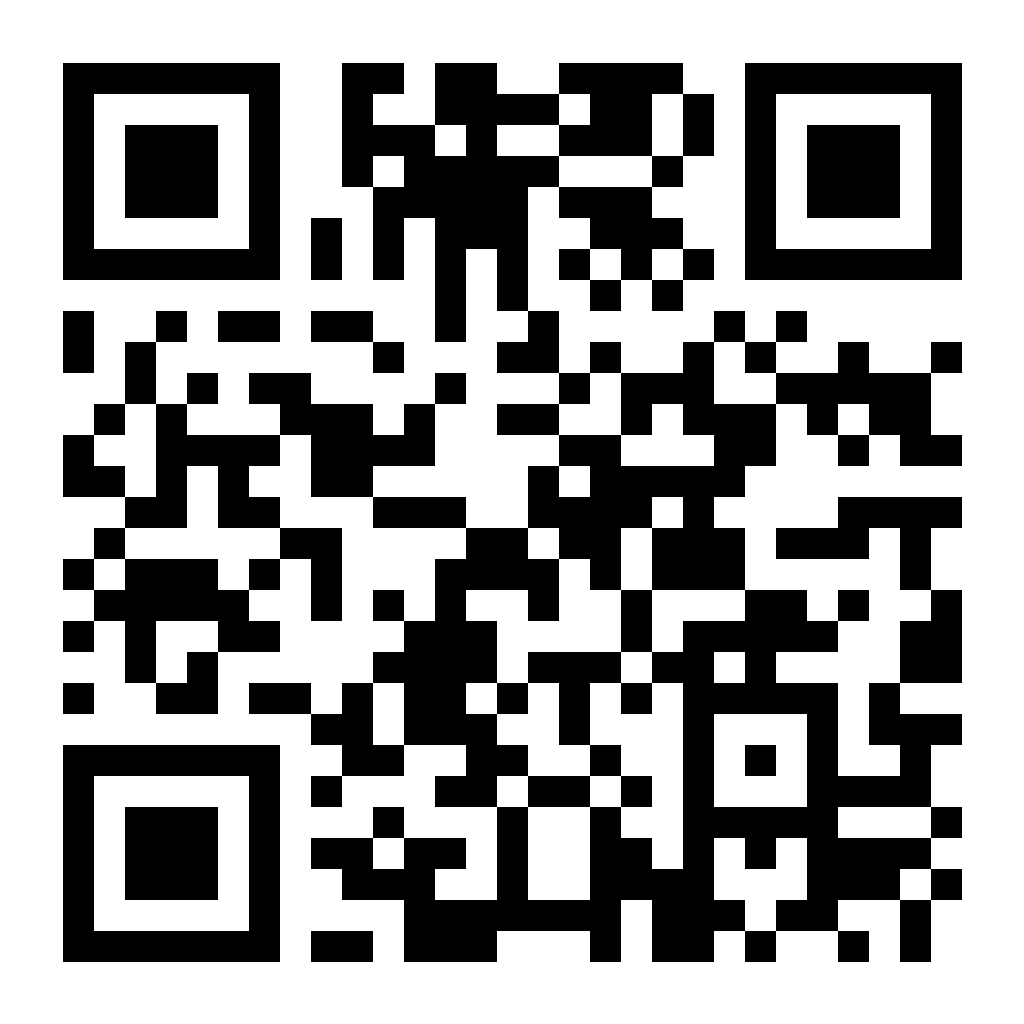
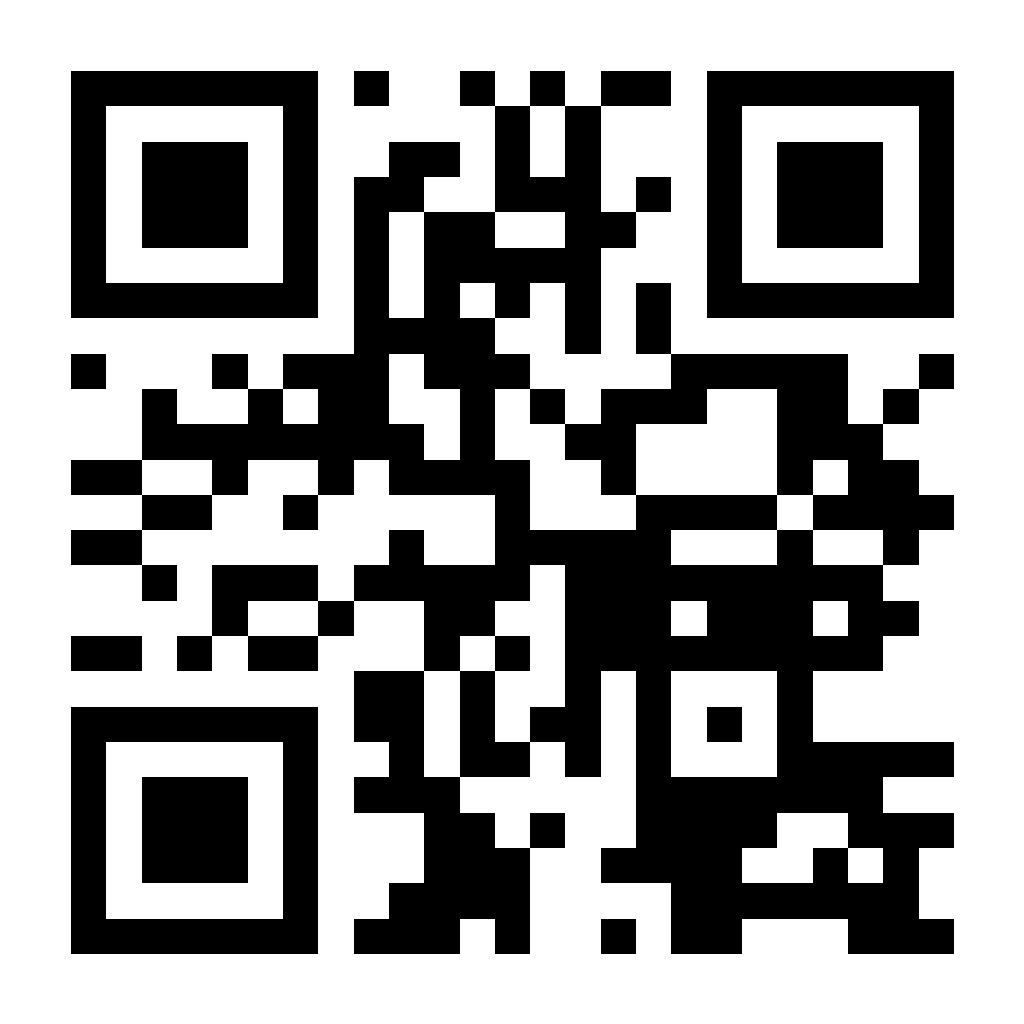
Domain utama jukirhub.site: URL kanonik, sitemap, QR, dokumen; alamat lama & www dialihkan permanen
- SITUS.urlBawaan, cek-tayang, setup-telegram, URL_WEB bawaan lapor, User-Agent berita, QR & poster, teks WA, iklan
- vercel.json: jukirhub.vercel.app & www.jukirhub.site -> https://jukirhub.site (308)
- JANGAN push sebelum domain aktif di Vercel + DNS, dan ALLOWED_ORIGINS Supabase memuat jukirhub.site

diff --git a/docs/peluncuran/poster.html b/docs/peluncuran/poster.html
@@ -40,8 +40,8 @@
   <p class="sub">Jukirnya membantu? Bayar berapa? Dapat karcis? Laporan Anda membantu warga lain dan pemerintah daerah
     mengetahui aktivitas parkir di sekitar sini.</p>
   <div class="qr">
-    <img src="qr-jukirhub.svg" alt="QR code ke jukirhub.vercel.app/peta">
-    <p>Pindai dengan kamera HP<br><span class="url">jukirhub.vercel.app</span><br>Gratis, tanpa akun, &lt; 30 detik.</p>
+    <img src="qr-jukirhub.svg" alt="QR code ke jukirhub.site/peta">
+    <p>Pindai dengan kamera HP<br><span class="url">jukirhub.site</span><br>Gratis, tanpa akun, &lt; 30 detik.</p>
   </div>
   <ol>
     <li><span>Buka peta, izinkan lokasi.</span></li>
@@ -59,8 +59,8 @@
   <p class="sub">Pengunjung tidak perlu membayar parkir di tempat kami. Bantu warga lain tahu: laporkan
     <b>"Tidak ada jukir"</b> di JukirHub.</p>
   <div class="qr">
-    <img src="qr-jukirhub.svg" alt="QR code ke jukirhub.vercel.app/peta">
-    <p>Pindai, ketuk tempat ini di peta, pilih <b>Tidak ada jukir</b>, kirim.<br><span class="url">jukirhub.vercel.app</span></p>
+    <img src="qr-jukirhub.svg" alt="QR code ke jukirhub.site/peta">
+    <p>Pindai, ketuk tempat ini di peta, pilih <b>Tidak ada jukir</b>, kirim.<br><span class="url">jukirhub.site</span></p>
   </div>
   <p class="catatan">Ada yang menarik uang parkir di sini? Itu bukan dari kami. Laporkan lewat JukirHub
     ("Ada jukir" → pilih indikasi yang dialami) dan beri tahu kasir kami.</p>

diff --git a/tests/situs.test.js b/tests/situs.test.js
@@ -83,3 +83,14 @@ test('ads.txt tidak dialihkan ke aplikasi (404 sampai kode AdSense diisi, bukan 
   assert.ok(new RegExp(v.rewrites[0].source.replace(/^\//, '^/') + '$').test('/privasi'));
   assert.ok(!new RegExp(v.rewrites[0].source.replace(/^\//, '^/') + '$').test('/ads.txt'));
 });
+
+test('domain utama jukirhub.site: kanonik, dan alamat lama & www dialihkan permanen', async () => {
+  const fs = await import('node:fs');
+  const { SITUS } = await import('../web/src/lib/konten-beranda.js');
+  assert.equal(SITUS.urlBawaan, 'https://jukirhub.site');
+  const v = JSON.parse(fs.readFileSync('vercel.json', 'utf8'));
+  for (const host of ['jukirhub.vercel.app', 'www.jukirhub.site']) {
+    const r = v.redirects.find(x => x.has?.[0]?.value === host);
+    assert.ok(r && r.permanent && r.destination === 'https://jukirhub.site/:jalur*', host);
+  }
+});

diff --git a/tests/kabar-pemilik.test.js b/tests/kabar-pemilik.test.js
@@ -5,7 +5,7 @@ import { prosesTelegram, samaAman } from '../supabase/functions/telegram/proses.
 import { prosesLapor } from '../supabase/functions/lapor/proses.js';
 
 test('pesan tempat baru: nama di-escape, asal nama, tautan OpenStreetMap; tanpa data pelapor', () => {
-  const p = pesanTempatBaru({ id: 12, nama: 'Cafe <Kopi> & Teh', sumber: 'pin', lat: -5.14, lng: 119.43 }, 'https://jukirhub.vercel.app');
+  const p = pesanTempatBaru({ id: 12, nama: 'Cafe <Kopi> & Teh', sumber: 'pin', lat: -5.14, lng: 119.43 }, 'https://jukirhub.site');
   assert.match(p, /Cafe &lt;Kopi&gt; &amp; Teh/);
   assert.match(p, /nama diketik warga/);
   assert.match(p, /openstreetmap\.org\/\?mlat=-5\.14&amp;mlon=119\.43/, '& di href di-escape untuk HTML Telegram');

diff --git a/scripts/cek-tayang.js b/scripts/cek-tayang.js
@@ -1,4 +1,4 @@
-// Pastikan commit terakhir di `main` sudah TAYANG di jukirhub.vercel.app (AGENTS.md bagian 9).
+// Pastikan commit terakhir di `main` sudah TAYANG di jukirhub.site (AGENTS.md bagian 9).
 //
 //   git push && npm run cek:tayang
 //
@@ -9,7 +9,7 @@
 import { execSync } from 'node:child_process';
 import { pathToFileURL } from 'node:url';
 
-const SITUS = 'https://jukirhub.vercel.app';
+const SITUS = 'https://jukirhub.site';
 const REPO = 'wahyu-setiawan99/jukirhub';
 const JEDA_MS = 30_000;
 const MAKS_MS = 10 * 60_000;

diff --git a/web/src/lib/konten-beranda.js b/web/src/lib/konten-beranda.js
@@ -9,7 +9,7 @@ export const SITUS = {
   // Tagline logo (keputusan pemilik 1 Okt 2026). Satu sumber: header, Beranda, og.png.
   tagline: 'Melaporkan juru parkir liar',
   // Domain belum diputuskan (AGENTS.md bagian 11). Bisa ditimpa env VITE_SITE_URL.
-  urlBawaan: 'https://jukirhub.vercel.app',
+  urlBawaan: 'https://jukirhub.site',
   judul: 'JukirHub: Info Juru Parkir, Tarif, dan Indikasi Pungli dari Warga',
   // Deskripsi ±150 karakter: lebih panjang dari ±160 dipotong Google di hasil pencarian.
   deskripsi:

diff --git a/supabase/functions/lapor/index.ts b/supabase/functions/lapor/index.ts
@@ -15,7 +15,7 @@ const supabase = createClient(
 
 const REPORTER_SALT = Deno.env.get('REPORTER_SALT');
 const IP_SALT = Deno.env.get('IP_SALT');
-const URL_WEB = Deno.env.get('URL_WEB') ?? 'https://jukirhub.vercel.app';
+const URL_WEB = Deno.env.get('URL_WEB') ?? 'https://jukirhub.site';
 const ALLOWED_ORIGINS = (Deno.env.get('ALLOWED_ORIGINS') ?? '*').split(',').map(s => s.trim()).filter(Boolean);
 
 function corsHeaders(req: Request): Record<string, string> {

diff --git a/supabase/functions/_shared/berita.js b/supabase/functions/_shared/berita.js
@@ -36,7 +36,7 @@ export const BATAS_BERITA = {
 };
 
 export const MODEL_BAWAAN = 'gemini-3.5-flash-lite';
-export const USER_AGENT = 'Mozilla/5.0 (compatible; JukirHubBot/1.0; +https://jukirhub.vercel.app)';
+export const USER_AGENT = 'Mozilla/5.0 (compatible; JukirHubBot/1.0; +https://jukirhub.site)';
 
 // ------------------------------------------------------------------ baca RSS
 

diff --git a/scripts/setup-telegram.js b/scripts/setup-telegram.js
@@ -15,7 +15,7 @@ import os from 'node:os';
 import path from 'node:path';
 import readline from 'node:readline/promises';
 
-const URL_WEB = 'https://jukirhub.vercel.app';
+const URL_WEB = 'https://jukirhub.site';
 
 async function telegram(token, metode, body) {
   const res = await fetch(`https://api.telegram.org/bot${token}/${metode}`, {

diff --git a/scripts/buat-qr.js b/scripts/buat-qr.js
@@ -8,7 +8,7 @@
 import fs from 'node:fs';
 import QRCode from 'qrcode';
 
-const URL_APP = 'https://jukirhub.vercel.app/peta';
+const URL_APP = 'https://jukirhub.site/peta';
 const FOLDER = 'docs/peluncuran';
 
 fs.mkdirSync(FOLDER, { recursive: true });

diff --git a/docs/peluncuran/iklan.md b/docs/peluncuran/iklan.md
@@ -35,7 +35,7 @@ rumah belum bisa langsung melapor**. Konsekuensinya untuk iklan:
 
 - [ ] **Migrasi kampanye + deploy `lapor` sudah dijalankan pemilik** (lihat bagian "Langkah pemilik" di pesan rilis).
 - [ ] **Halaman Facebook "JukirHub"**: kategori *Situs web* atau *Layanan komunitas*; foto profil = logo
-      (`web/public/ikon-512.png`), sampul = poster halaman 1; tombol aksi "Kunjungi situs" → https://jukirhub.vercel.app.
+      (`web/public/ikon-512.png`), sampul = poster halaman 1; tombol aksi "Kunjungi situs" → https://jukirhub.site.
       Isi 3–5 postingan organik dulu sebelum beriklan (Halaman kosong terlihat mencurigakan dan iklan sering ditahan).
 - [ ] **Akun Instagram bisnis** dihubungkan ke Halaman (Meta Business Suite → Pengaturan → Akun Instagram).
 - [ ] **Akun iklan** di Meta Business Suite, mata uang IDR, zona waktu Asia/Makassar, metode bayar diisi **oleh
@@ -78,7 +78,7 @@ isu sosial (verifikasi identitas + label "Dibayar oleh"), prosesnya beberapa har
 | Audiens | Advantage+ audience, tanpa minat tambahan (biarkan Meta mencari) |
 | Penempatan | Advantage+ (FB Feed, FB Reels, IG Reels, IG Stories, FB Stories). Matikan Audience Network |
 | Iklan | 4 iklan dalam 1 set: V1, V2, V3 (video) + G1 (gambar). Nama iklan = kode di tabel 3 |
-| Tautan | `https://jukirhub.vercel.app/peta` |
+| Tautan | `https://jukirhub.site/peta` |
 | Parameter URL | `utm_source=facebook&utm_medium=paid&utm_campaign={{campaign.name}}&utm_content={{ad.name}}` |
 | Nama kampanye | `mks-uji-okt` (huruf kecil, strip, tanpa spasi; muncul apa adanya di `npm run kampanye`) |
 | Tombol | **Pelajari selengkapnya** |
@@ -120,7 +120,7 @@ Hitung biaya per pelapor (bagian 5), putuskan lanjut / ganti materi / berhenti. 
 ## 3. Materi iklan
 
 Semua video: **9:16, 1080×1920, 15–30 detik**, teks di layar sepanjang video, logo JukirHub kecil di pojok, detik
-terakhir = rekaman layar app + `jukirhub.vercel.app`. Rekam di HP sendiri; potong & beri teks dengan CapCut
+terakhir = rekaman layar app + `jukirhub.site`. Rekam di HP sendiri; potong & beri teks dengan CapCut
 (fitur teks otomatis, lalu periksa ejaannya). Musik: pakai pustaka musik bebas lisensi bawaan Meta/CapCut, **bukan**
 lagu populer (iklan bisa diturunkan karena hak cipta).
 
@@ -135,7 +135,7 @@ pernah dilaporkan.
 | 3–8 | rekaman layar: buka JukirHub → peta → ketuk minimarket | "Sekarang bisa dicek dulu." |
 | 8–15 | lembar tempat: membantu saat pergi (4 dari 5), tarif yang dibayar, bintang | "Laporan warga: membantu atau tidak, bayar berapa, rating." |
 | 15–22 | tombol Laporkan parkir → form terisi cepat → sukses | "Habis parkir? Lapor 20 detik. Tanpa akun." |
-| 22–27 | logo + alamat | **"JukirHub. Cek dulu sebelum parkir."** jukirhub.vercel.app |
+| 22–27 | logo + alamat | **"JukirHub. Cek dulu sebelum parkir."** jukirhub.site |
 
 Teks utama iklan:
 > Parkir di depan toko, jukirnya membantu atau tidak? Bayar berapa biasanya? Sekarang bisa dicek dari laporan
@@ -189,9 +189,9 @@ Gunakan huruf kecil, tanpa spasi. Semua mengarah ke `/peta`.
 
 | Tempat | Tautan |
 |---|---|
-| Bio Instagram | `https://jukirhub.vercel.app/peta?utm_source=instagram&utm_medium=bio&utm_campaign=organik` |
-| Bio TikTok | `https://jukirhub.vercel.app/peta?utm_source=tiktok&utm_medium=bio&utm_campaign=organik` |
-| Postingan Halaman FB | `https://jukirhub.vercel.app/peta?utm_source=facebook&utm_medium=organik&utm_campaign=halaman` |
+| Bio Instagram | `https://jukirhub.site/peta?utm_source=instagram&utm_medium=bio&utm_campaign=organik` |
+| Bio TikTok | `https://jukirhub.site/peta?utm_source=tiktok&utm_medium=bio&utm_campaign=organik` |
+| Postingan Halaman FB | `https://jukirhub.site/peta?utm_source=facebook&utm_medium=organik&utm_campaign=halaman` |
 | Grup FB warga | `…?utm_source=facebook&utm_medium=grup&utm_campaign=<nama-grup-singkat>` |
 | WhatsApp | `…?utm_source=whatsapp&utm_campaign=<grup-singkat>` |
 

diff --git a/AGENTS.md b/AGENTS.md
@@ -46,7 +46,7 @@ data memuat disclaimer itu.
 
 | | |
 |---|---|
-| Web | https://jukirhub.vercel.app (Vercel, deploy otomatis dari `main`; domain sendiri belum, bagian 11) |
+| Web | **https://jukirhub.site** (domain utama sejak 1 Okt 2026; Vercel, deploy otomatis dari `main`). `jukirhub.vercel.app` & `www.jukirhub.site` dialihkan permanen (308) lewat `redirects` di `vercel.json` |
 | Backend | Supabase, proyek khusus JukirHub, ref `dcjnufascffooyotwqki` (https://dcjnufascffooyotwqki.supabase.co) |
 | Repo | https://github.com/wahyu-setiawan99/jukirhub (cabang `main`) |
 | Rujukan | repo Adami di `../Adami App` (baca saja) |
@@ -794,6 +794,9 @@ Keputusan yang sudah diambil pemilik proyek. Jangan dibalik tanpa bertanya.
   - Pemilik: JukirHub untuk **seluruh Indonesia**, dizonasi per pulau/provinsi supaya bisa mengimbau masyarakat per
     daerah → rencana bagian 1.5. Pemilik juga minta 2 opsi tampilan yang lebih "tech pro" dan logo lebih ikonik dengan
     tagline "Melaporkan juru parkir liar" (mockup dibuat).
+  - **Domain `jukirhub.site`** (pemilik, 1 Okt 2026): semua URL di kode/dokumen diganti, QR dibuat ulang, redirect
+    permanen dari alamat lama. Pemilik: tambah domain di Vercel + DNS, `ALLOWED_ORIGINS` & `URL_WEB` di Supabase, Search
+    Console & AdSense memakai domain ini.
   - Revisi pemilik: tagline dihapus dari dekat logo (header); Poppins sudah tidak dipakai & tidak terpasang; satu
     tombol "Laporkan parkir" per layar (kartu "Belum ada koin" di tab Saya tidak punya tombol sendiri); halaman situs
     untuk AdSense (1.6); kinerja diukur ulang (7).
@@ -814,8 +817,6 @@ Keputusan yang sudah diambil pemilik proyek. Jangan dibalik tanpa bertanya.
 - Poin skor pungli di 6.2 masih usulan awal; kalibrasi setelah ada data.
 - Komentar hanya lewat laporan (rekomendasi Claude, 1.3.1) atau juga boleh tanpa melapor (butuh batas & moderasi
   tambahan).
-- **Domain sendiri** (wajib untuk AdSense, 1.6): usulan `jukirhub.id` atau `jukirhub.com`. Setelah domain dipasang:
-  `VITE_SITE_URL`, `npm run qr` ulang, poster, iklan.
 - Rencana nasional (1.5): kapan N3 (kota besar Jawa–Bali), moderator per zona, dan apakah imbauan manual boleh dari
   mitra (Dishub / komunitas).
 - Tagline logo "Melaporkan juru parkir liar" dipakai sesuai pilihan pemilik. Catatan Claude tetap berlaku: kata "liar"

diff --git a/docs/peluncuran/teks-whatsapp.md b/docs/peluncuran/teks-whatsapp.md
@@ -16,7 +16,7 @@ Halo semua 👋
 Ada aplikasi gratis untuk berbagi info *juru parkir di sekitar kita*: jukirnya membantu atau tidak, biasanya bayar
 berapa, dapat karcis atau tidak. Namanya *JukirHub*.
 
-👉 https://jukirhub.vercel.app/peta
+👉 https://jukirhub.site/peta
 
 Cara pakai:
 1. Buka tautan, izinkan lokasi
@@ -37,7 +37,7 @@ Rekan-rekan driver 🛵
 Tiap hari kita parkir di depan toko, minimarket, warung. Yuk catat pengalaman parkirnya di *JukirHub*: jukir membantu
 atau tidak, bayar berapa, ada karcis atau tidak.
 
-👉 https://jukirhub.vercel.app/peta
+👉 https://jukirhub.site/peta
 
 Buka → ketuk tempatnya di peta → jawab singkat → kirim. Gratis, tanpa daftar.
 Makin banyak yang lapor, makin jelas mana tempat yang jukirnya membantu dan mana yang sering tanpa karcis.
@@ -51,7 +51,7 @@ Catatan: cukup laporkan, tidak usah berdebat dengan jukir di lokasi 🙏
 Halo [nama pemilik usaha] 👋
 
 Kalau parkir di tempat Anda gratis / tidak ada jukir, pengunjung bisa tahu lewat *JukirHub*:
-👉 https://jukirhub.vercel.app/peta
+👉 https://jukirhub.site/peta
 
 1. Saat di tempat Anda, buka tautan dan izinkan lokasi
 2. Cari nama usaha Anda. Belum ada di peta? Tekan *Laporkan di lokasi saya*
